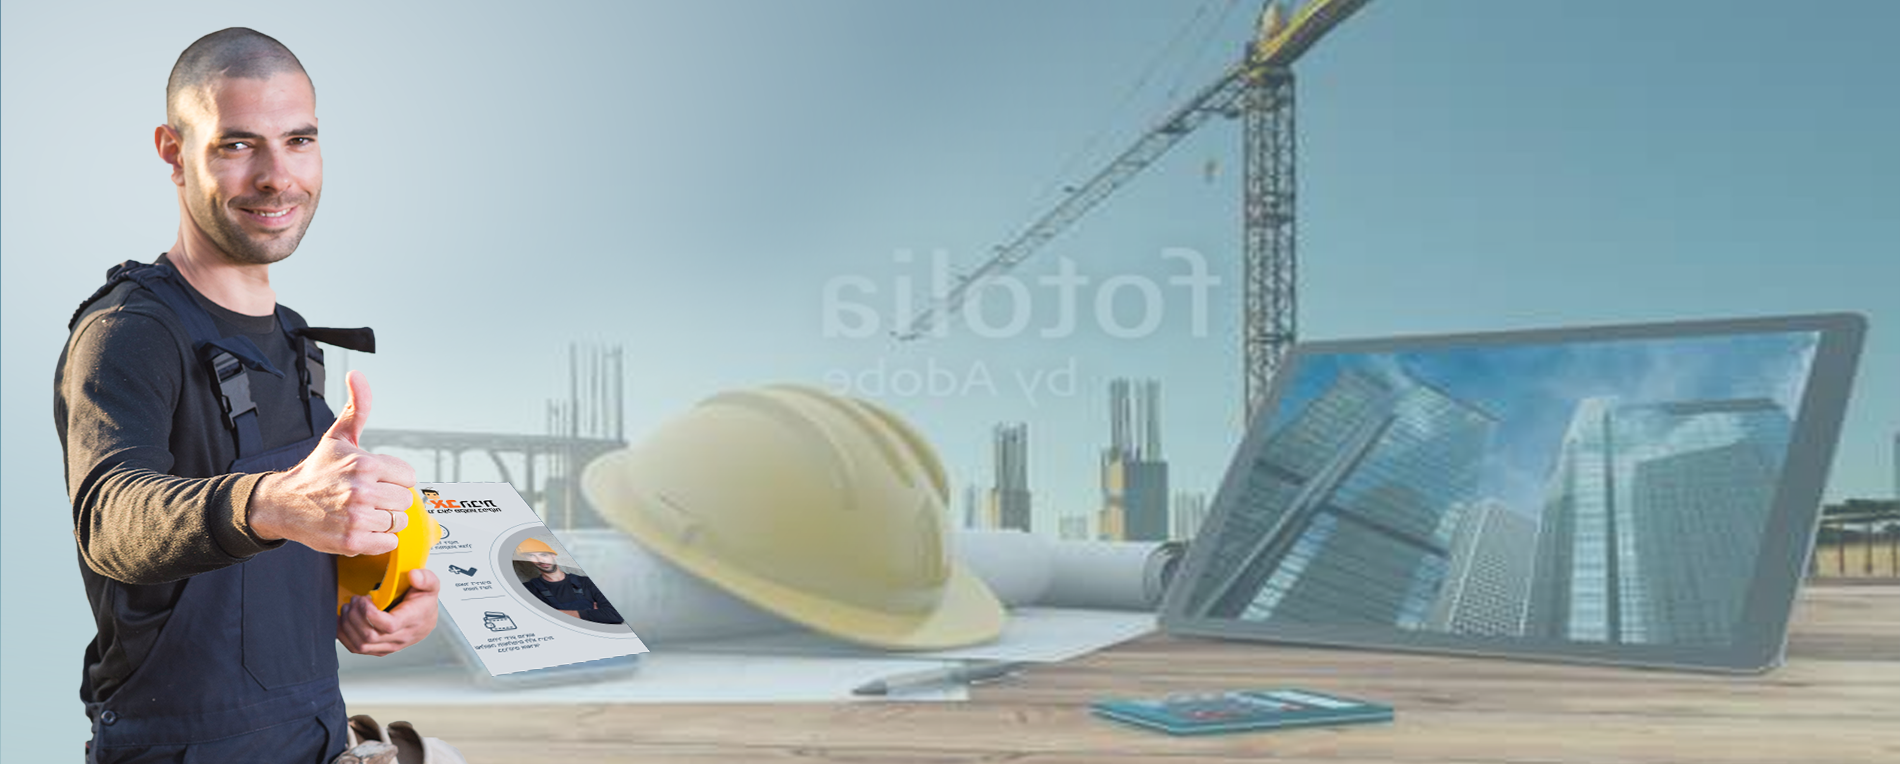
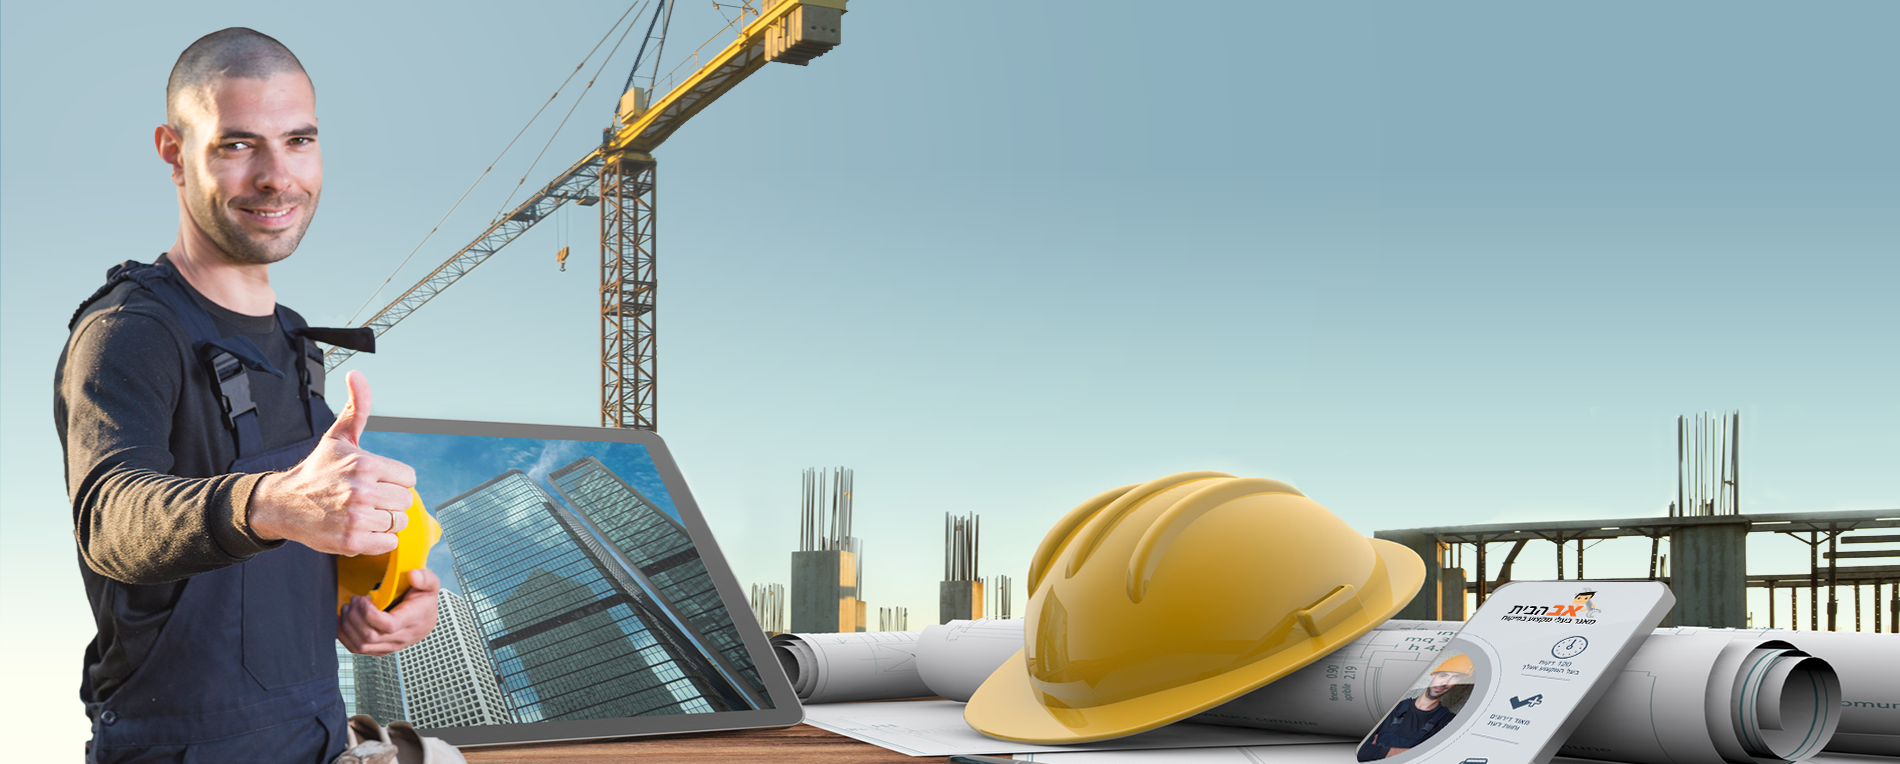
manyyyyyy changes

diff --git a/app/components/smallBanner/smallBanner.component.html b/app/components/smallBanner/smallBanner.component.html
@@ -1,28 +1,30 @@
 
 <section class="row page-banner no-bg">
-
+    <div class="container">
+        <ul class="features">
+            <li class="text-center">
+                <a ui-sref="website.category">
+                    <img src="content/images/clock.png" />
+                    <p>
+                        120 דקות<br />ובעל המקצוע אצלך
+                    </p>
+                </a>
+            </li>
+            <li class="text-center">
+                <a href="rating-category.html">
+                    <img src="content/images/ratingIcon.png" />
+                    <p>אלפי דירוגים<br />וחוות דעת</p>
+                </a>
+            </li>
+            <li class="text-center">
+                <img src="content/images/creditIcon.png" />
+                <p>מחיר ידוע מראש<br />שלושה תשלומים ללא ריבית בכרטיס אשראי</p>
+            </li>
+        </ul>
+    </div>
     <div class="col-xs-12">
         <div class="col-xs-10 col-lg-8 col-md-10 col-sm-10 text-center">
-            <ul class="features">
-                <li class="color-white">
-                    <a ui-sref="website.category">
-                        <img src="content/images/clock.png" />
-                        <p>
-                            120 דקות<br />ובעל המקצוע אצלך
-                        </p>
-                    </a>
-                </li>
-                <li class="color-white">
-                    <a href="rating-category.html">
-                        <img src="content/images/ratingIcon.png" />
-                        <p>אלפי דירוגים<br />וחוות דעת</p>
-                    </a>
-                </li>
-                <li class="color-white">
-                    <img src="content/images/creditIcon.png" />
-                    <p>מחיר ידוע מראש<br />שלושה תשלומים ללא ריבית<br />בכרטיס אשראי</p>
-                </li>
-            </ul>
+            
 
 
 

diff --git a/app/components/bigBanner/bigBanner.component.html b/app/components/bigBanner/bigBanner.component.html
@@ -4,7 +4,7 @@
 
             <h1 class="color-white">מהפכת הצרכנות בשוק בעלי המקצוע</h1>
             <ul class="features">
-                <li class="color-white text-center">
+                <li class="text-center">
                     <a ui-sref="website.category">
                         <img src="content/images/clock.png" />
                         <p>
@@ -12,15 +12,15 @@
                         </p>
                     </a>
                 </li>
-                <li class="color-white text-center">
+                <li class="text-center">
                     <a href="rating-category.html">
                         <img src="content/images/ratingIcon.png" />
                         <p>אלפי דירוגים<br />וחוות דעת</p>
                     </a>
                 </li>
-                <li class="color-white text-center">
+                <li class="text-center">
                     <img src="content/images/creditIcon.png" />
-                    <p>מחיר ידוע מראש<br />שלושה תשלומים ללא ריבית<br />בכרטיס אשראי</p>
+                    <p>מחיר ידוע מראש<br />שלושה תשלומים ללא ריבית בכרטיס אשראי</p>
                 </li>
             </ul>
         </div>
@@ -34,7 +34,7 @@
                     <small>בחר את סוג בעל המקצוע</small>
                 </li>
                 <li ng-class="{'active':process.secondStep}">
-                    קבל מחיר
+                    בחר מסלול
                     <small>הנוח ביותר עבורך</small>
                 </li>
                 <li ng-class="{'active':process.lastStep}">

diff --git a/app/components/menu/menu.component.html b/app/components/menu/menu.component.html
@@ -29,9 +29,10 @@
                 </div>
                 <div>
                     <div class="collapse navbar-collapse" id="main-menu">
-                        <div class="col-xs-8">
+                        <div class="col-xs-9">
                             <ul class="nav navbar-nav">
                                 <li><a href="/#problem-solution">הפתרון שלנו</a></li>
+                                <li><a href="/">הזמן בעל מקצוע</a></li>
                                 <li><a href="/#how">איך זה עובד</a></li>
                                 <li><a href="/#why">מדוע זה כדאי לי</a></li>
                                 <li><a href="/#services">שירותי אב הבית</a></li>
@@ -39,7 +40,7 @@
                                 <li><a href="/#contactus">צור קשר</a></li>
                             </ul>
                         </div>
-                        <div class="col-xs-4 social ">
+                        <div class="col-xs-3 social ">
                             <button type="button"><img src="/content/images/facebook.png" /></button>
                             <button type="button"><img src="/content/images/google.png" /></button>
                             <button type="button"><img src="/content/images/youtube.png" /></button>

diff --git a/app/components/bigBanner/bigBanner.component.css b/app/components/bigBanner/bigBanner.component.css
@@ -4,7 +4,7 @@
 
     .main-img h1 {
         font-size: 3.7rem;
-        margin-top: 3rem;
+        margin-top: -2rem;
         line-height: 87px;
     }
 
@@ -27,7 +27,7 @@
             }
 
             .main-img .features li:not(:last-child) {
-                border-left: 1px solid #1a353f;
+                border-left: 1px solid #fff;
                 height: 8rem;
             }
 
@@ -35,11 +35,17 @@
                 margin-bottom: 3rem;
             }
 
+.features p
+{
+    font-size:16px;
+    color:#000;
+}
+
 
 
 .steps-row
 {
-        margin-top:6rem;
+              margin-top: 12.8rem;
 }
 
 #process {
@@ -50,15 +56,15 @@
 }
 
     #process li {
-        list-style-type: none;
-        color: #fff;
-        text-transform: uppercase;
-        font-size: 14px;
-        width: 33.33%;
-        float: right;
-        position: relative;
-        text-align: right;
-        font-weight: bold;
+    list-style-type: none;
+    color: #000;
+    text-transform: uppercase;
+    font-size: 15px;
+    width: 33.33%;
+    float: right;
+    position: relative;
+    text-align: right;
+    font-weight: bold;
     }
 
         #process li:before {

diff --git a/app/views/website/handyman.html b/app/views/website/handyman.html
@@ -1,11 +1,13 @@
 
+<link href="/app/views/website/business/handyman.css" rel="stylesheet" />
+<small-banner></small-banner>
 
 
 <section class="row" id="profile">
     <div class="col-xs-12 vendor-details">
         <div class="container">
             <div class="col-xs-3 col-lg-3 col-md-3 col-sm-3">
-                <img class="profileImg" src="content/images/defaultImg.png" />
+                <img class="profileImg" src="content/images/avatar.jpg" />
             </div>
             <div class="col-xs-3 col-lg-3 col-md-3 col-sm-3 handyman-name border-left">
                 <h3 class="text-right">ענבר עיצוב ואדריכלות</h3>

diff --git a/app/components/menu/menu.component.css b/app/components/menu/menu.component.css
@@ -19,6 +19,10 @@
     color: #fff;
 }
 
+.nav > li > a:focus, .nav > li > a:hover
+{
+    background-color: rgba(238, 238, 238, 0.28);
+}
 
 .black-opacity
 {
@@ -27,7 +31,7 @@
 
 .white-opacity
 {
-    background-color: rgba(255, 255, 255, 0.25);
+    background-color: rgba(255, 255, 255, 0.44);
 }
 
 
@@ -68,7 +72,7 @@
     border: none;
     box-shadow: none;
     padding: 0;
-    width: 14%;
+    width: 20%;
     background: transparent;
     float: left;
 }

diff --git a/app/views/website/business/handyman.css b/app/views/website/business/handyman.css
@@ -17,10 +17,11 @@
 
 .profileImg
 {
-    width: 81%;
+    width: 62%;
     margin-top: 1rem;
     border: 5px solid #fff;
-    height: 19rem;
+    height: 17rem;
+    margin-right: 2rem;
 }
 
 
@@ -91,9 +92,9 @@
 
 .vendor-details
 {
-    border-bottom: 1px solid #EAEAEA;
+    margin-bottom: 5rem;
+    background-color: #f9f9f9;
     height: 8rem;
-    margin-bottom: 8rem;
 }
 
 

diff --git a/app/views/popups/popup-register.html b/app/views/popups/popup-register.html
@@ -21,7 +21,7 @@
                 </div>
 
                 <div class="row form-group">
-                    <label>טפלון נייד</label>
+                    <label>טלפון נייד</label>
                     <input type="text" class="form-control" ng-model="models.mobileNumber">
                 </div>
                 <div class="row form-group">

diff --git a/app/views/popups/register/register.html b/app/views/popups/register/register.html
@@ -21,7 +21,7 @@
                 </div>
 
                 <div class="row form-group">
-                    <label>טפלון נייד</label>
+                    <label>טלפון נייד</label>
                     <input type="text" class="form-control" ng-model="models.mobileNumber">
                 </div>
                 <div class="row form-group">

diff --git a/app/components/smallBanner/smallBanner.component.css b/app/components/smallBanner/smallBanner.component.css
@@ -20,7 +20,7 @@
     .page-banner .features li
     {
         display: inline-block;
-        padding: 1rem 6rem;
+        padding: 1rem 4rem;
     }
 
         .page-banner .features li p
@@ -37,4 +37,5 @@
         .page-banner .features li img
         {
             margin-bottom: 3rem;
+            width: 5.5rem;
         }

diff --git a/app/styles/website/style.css b/app/styles/website/style.css
@@ -30,6 +30,9 @@ a:hover
 .modal-content
 {
     margin-top: 13rem;
+    background:url('/content/images/blueprint.jpg') no-repeat;
+    background-size:cover;
+    background-color:none;
 }
 
 .float-left
